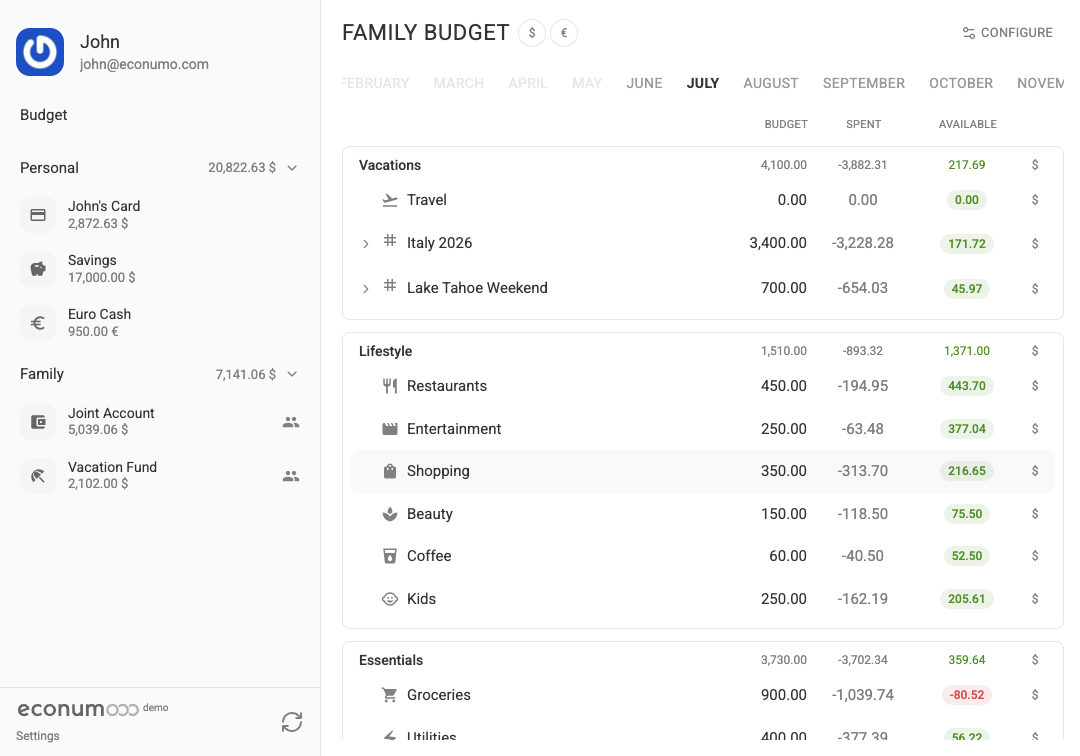
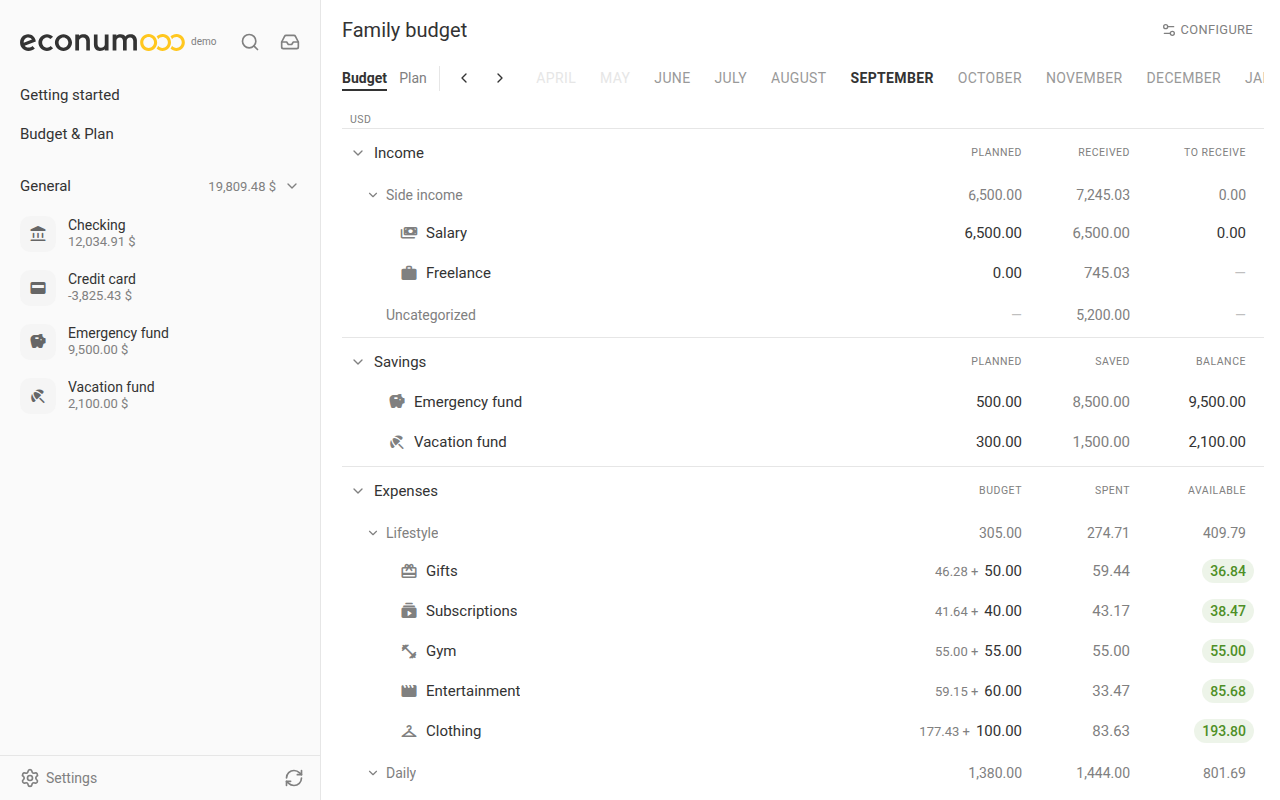
docs: Show the current budget view as the only README screenshot

diff --git a/README.md b/README.md
@@ -15,23 +15,8 @@ It serves both the API and the web app, runs database migrations automatically o
 boot, and works with SQLite (default) or PostgreSQL.
 
 <p align="center">
-    <img src="docs/screenshots/budget.png" alt="Econumo budget — envelope budgeting with folders, limits, and available amounts" width="800">
+    <img src="docs/screenshots/budget.png" alt="Econumo budget — income, savings and expenses for the month with planned, actual and available amounts" width="800">
 </p>
-
-<details>
-<summary><b>More screenshots</b> — transactions, adding a transaction, sharing with family</summary>
-<br>
-<table>
-  <tr>
-    <td align="center"><img src="docs/screenshots/transactions.png" alt="Transaction list of an account"><br><sub>Transactions</sub></td>
-    <td align="center"><img src="docs/screenshots/add-transaction.png" alt="Add-transaction dialog with built-in calculator and tags"><br><sub>Adding a transaction</sub></td>
-  </tr>
-  <tr>
-    <td align="center"><img src="docs/screenshots/shared-access.png" alt="Sharing budgets and accounts with family members"><br><sub>Manage money together</sub></td>
-    <td align="center"><img src="docs/screenshots/mobile.png" alt="Mobile view of accounts" height="420"><br><sub>Works great on mobile</sub></td>
-  </tr>
-</table>
-</details>
 
 > [!IMPORTANT]
 > The Docker image is now published to the **GitHub Container Registry**:
